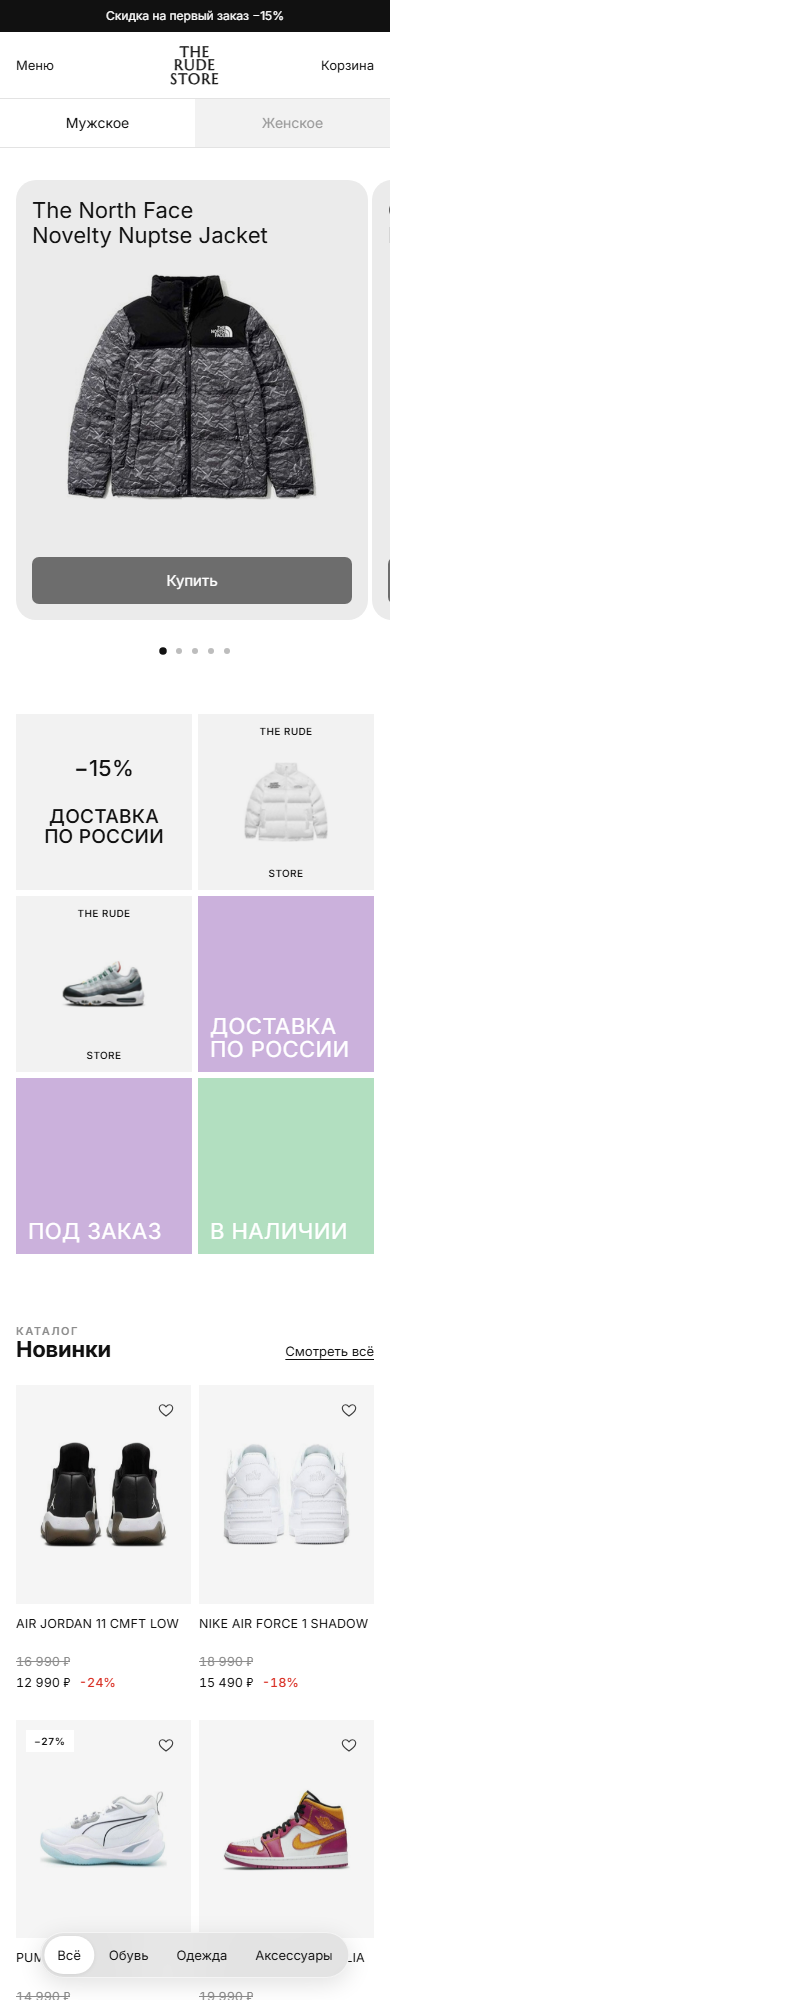
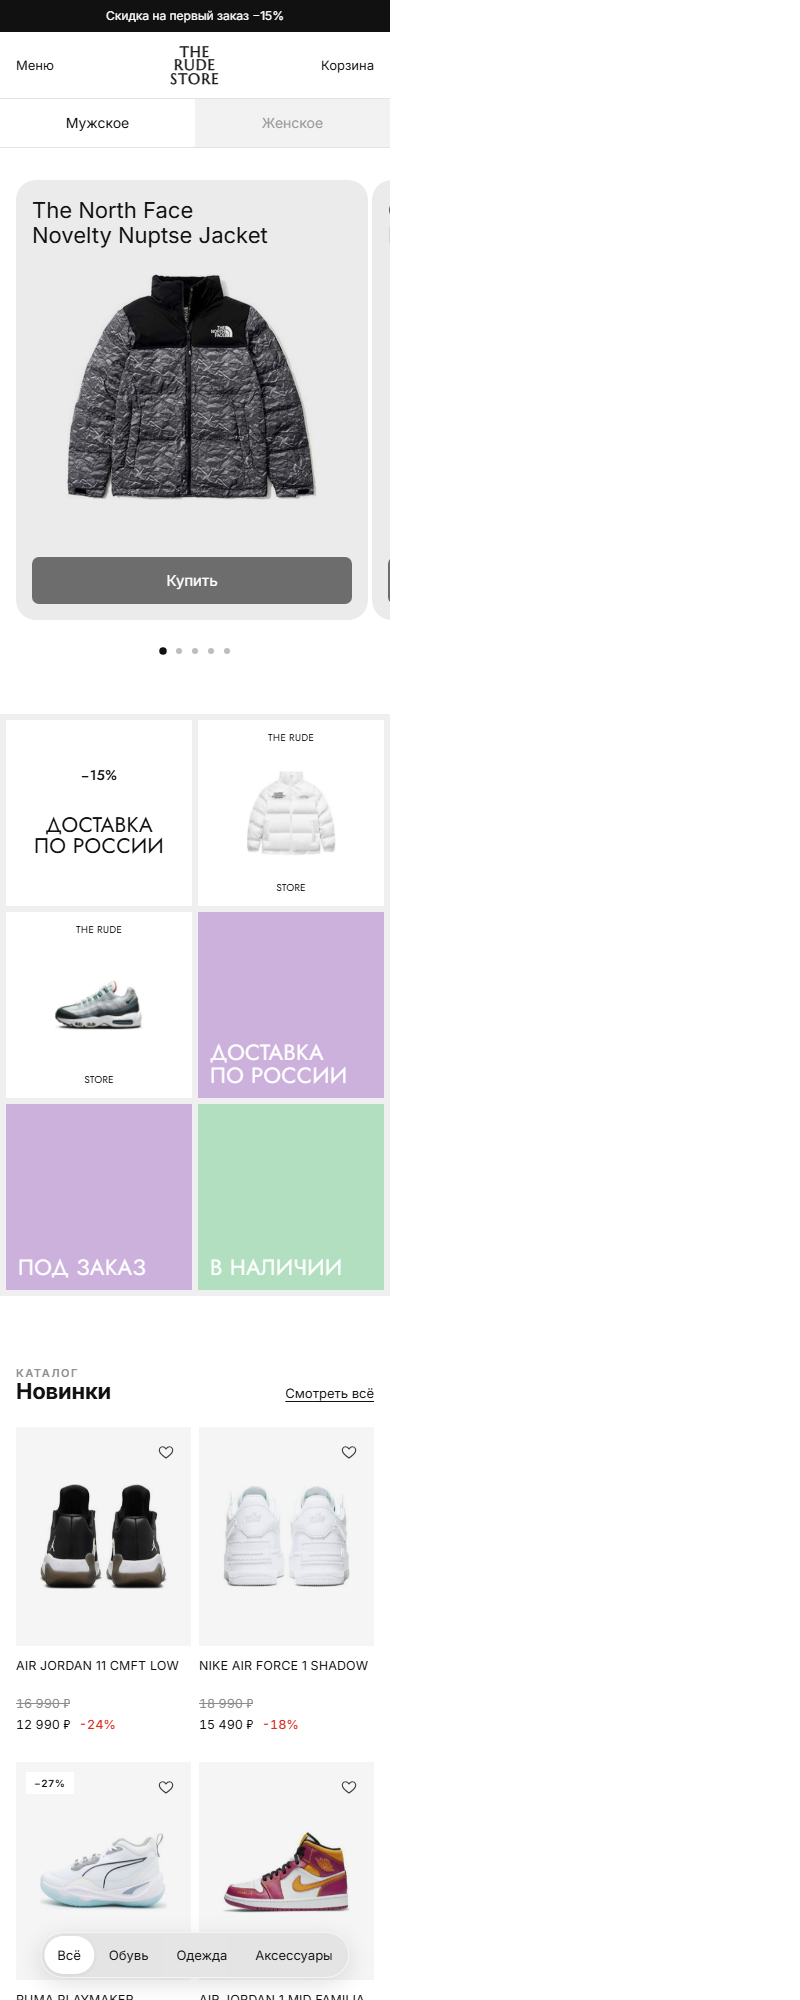
Tiles: canvas, Jost, hierarchy per reference

diff --git a/extra.css b/extra.css
@@ -178,3 +178,18 @@
 @media (max-width:900px){.tl.tx{display:none}.tl.tp img{width:64%;height:64%}}
 
 @media (min-width:901px){.cs-friend .cc{flex:0 0 min(31%,440px)}.cs-friend .car-t{gap:12px;padding:0 max(24px,calc((100% - var(--max,1320px))/2))}}
+
+/* как в референсе: белые плитки на сером холсте, шрифт Jost (Futura-подобный), «−15%» мелко, «Доставка» крупно */
+.sec .tiles{background:#efefef;padding:8px;gap:8px}
+.tl.tw{background:#fff}
+.tiles .tl,.tiles .tl *{font-family:'Jost',sans-serif!important}
+.tl.tw:not(.tp):not(.tx) b{font-size:clamp(14px,1.3vw,20px)!important;font-weight:500}
+.tl.tw:not(.tp):not(.tx) span{font-size:clamp(20px,2.3vw,34px)!important;line-height:1.02;font-weight:500}
+.tl.tx span{font-weight:500}
+.tl.tb span{font-weight:400}
+@media (max-width:900px){.sec .tiles{padding:6px;gap:6px;margin:0 -16px}.tl.tw:not(.tp):not(.tx) b{font-size:14px!important}.tl.tw:not(.tp):not(.tx) span{font-size:21px!important}.tl.tp img{width:70%;height:66%}}
+
+.tl.tw:not(.tp):not(.tx) span,.tl.tx span,.tl.tp i{font-weight:400!important}
+.tl.tp i{letter-spacing:.02em}
+.tl.tp img{width:68%;height:64%}
+@media (min-width:901px){.sec .tiles{background:#f4f4f4;padding:20px;gap:20px}}
